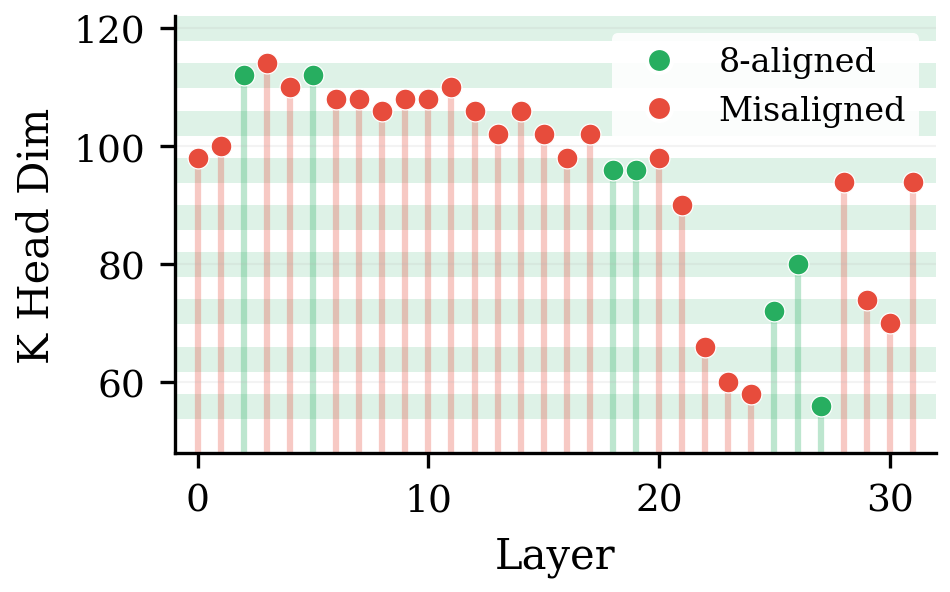
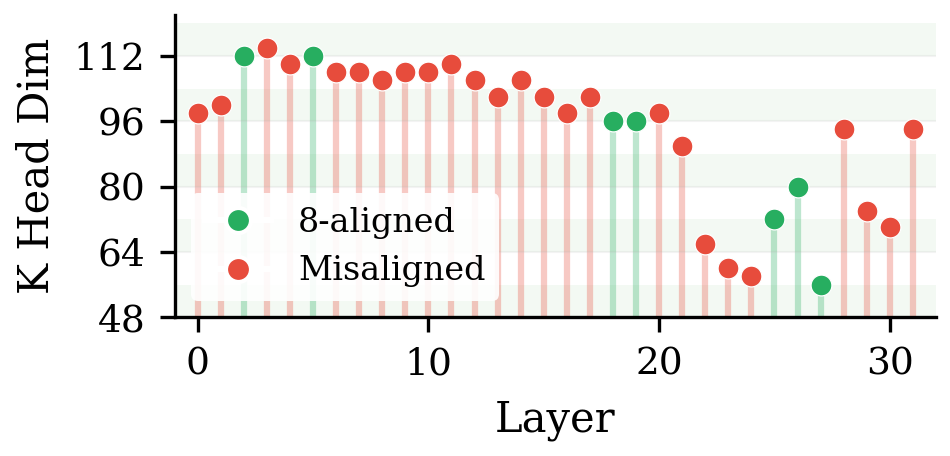
Update plots

diff --git a/Latex/main.tex b/Latex/main.tex
@@ -129,10 +129,9 @@ Second, allocate the budget $B$ by assigning each $W_i$ a dimension $d_i$ thus t
 Here $d_i$ is the compressed dimension (e.g., inner rank or output width, varies by compression method), $|W_i|$ is the parameter count given dimension $d_i$, $|\mathcal{W}'| = \sum_i |W_i|$ is the total parameter count of the compressed model, and $B$ is the parameter budget.
 Because $s_i$ and the optimum $\{d_i\}$ are continuous, the resulting dimensions are typically \emph{irregular} (e.g., 107, 108, 109) and often violate GPU alignment requirements (e.g.\ $d \bmod 8 = 0$), triggering backend fallbacks and kernel switches that erase the expected speedup from fewer parameters and FLOPs.
 
-We exemplify the dimensional misalignment problem with a real-world example: PaLU~\cite{palu}.
-We use \textbf{8-alignment} ($d \bmod 8 = 0$) as a concrete example of alignment constraints.
+We demonstrate the dimensional misalignment problem with a real-world example: PaLU~\cite{palu}.
+We use \textbf{8-alignment} ($d \bmod 8 = 0$) as an example of alignment constraints. When dimensions are not 8-aligned, latency can increase by up to 90\% (Figure~\ref{fig:sdpa_latency}); we detail this analysis in \S\ref{sec:analysis}.
 Figure~\ref{fig:palu_dist} shows that a large fraction of layers end up misaligned (e.g., 78\% in this setup).
-When dimensions are not 8-aligned, latency can increase by up to 90\% (Figure~\ref{fig:sdpa_latency}); we detail this analysis in \S\ref{sec:analysis}.
 For generality, we summarize the mainstream importance score proxies into four categories (Table~\ref{tab:importance_scores}).
 We empirically measure unconstrained dimension allocation on Llama-3-8B at $\rho=20\%$ with all four proxies, Figure~\ref{fig:dim_scatter} demonstrates the dimensional misalignment consistently occurs across different methods.
 \begin{figure}[t]
@@ -166,8 +165,6 @@ Fisher & $\mathrm{tr}(\mathbf{F}_i)$ & Curvature of loss & PaLU~\cite{palu}, FWS
 \caption{Llama-3-8B at $\rho=20\%$. Shape: $\circ{=}$Q Head, $\square{=}$K Head, $\triangle{=}$V Head; color: \textcolor{cgreen}{green}=8-aligned, \textcolor{cred}{red}=misaligned.}
 \label{fig:dim_scatter}
 \end{figure*}
-
-\input{figures/fig1_overview.tex}
 
 
 %% ===========================================

diff --git a/scripts/create_paper_figures.py b/scripts/create_paper_figures.py
@@ -13,6 +13,7 @@ import matplotlib.pyplot as plt
 import matplotlib.patches as mpatches
 from matplotlib.patches import FancyBboxPatch, FancyArrowPatch, Rectangle, Wedge
 from matplotlib.lines import Line2D
+from matplotlib.ticker import MultipleLocator
 from pathlib import Path
 from collections import Counter
 
@@ -310,12 +311,15 @@ def fig3_palu_distribution():
     dims = data['dims_per_head']  # 32 layers
     layers = list(range(len(dims)))
 
-    fig, ax = plt.subplots(figsize=(3.4, 2.2))
+    fig, ax = plt.subplots(figsize=(3.4, 1.75))
 
-    # Horizontal reference bands at 8-aligned values
-    for val in [56, 64, 72, 80, 88, 96, 104, 112, 120, 128]:
-        if min(dims) - 10 <= val <= max(dims) + 10:
-            ax.axhline(val, color=COLORS['aligned'], alpha=0.15, linewidth=6, zorder=0)
+    ymin, ymax = min(dims) - 8, max(dims) + 8
+    # Background: alternating horizontal bands every 8 units (8-aligned grid)
+    band_lo = (int(ymin) // 8) * 8
+    band_hi = ((int(ymax) + 7) // 8) * 8
+    shade_colors = ['#E8F5E9', 'white']  # light green, white
+    for i, y0 in enumerate(range(band_lo, band_hi, 8)):
+        ax.axhspan(y0, y0 + 8, facecolor=shade_colors[i % 2], alpha=0.5, zorder=0)
 
     # Draw stems and markers manually for per-color control
     colors = [COLORS['aligned'] if d % 8 == 0 else COLORS['misaligned'] for d in dims]
@@ -327,7 +331,8 @@ def fig3_palu_distribution():
     ax.set_xlabel('Layer', fontsize=10)
     ax.set_ylabel('K Head Dim', fontsize=10)
     ax.set_xlim(-1, len(dims))
-    ax.set_ylim(min(dims) - 8, max(dims) + 8)
+    ax.set_ylim(ymin, ymax)
+    ax.yaxis.set_major_locator(MultipleLocator(16))
     ax.tick_params(labelsize=9)
 
     # Legend
@@ -337,7 +342,7 @@ def fig3_palu_distribution():
         Line2D([0], [0], marker='o', color='w', markerfacecolor=COLORS['misaligned'],
                markersize=6, label='Misaligned'),
     ]
-    ax.legend(handles=legend_elements, loc='upper right', fontsize=8,
+    ax.legend(handles=legend_elements, loc='lower left', fontsize=8,
               framealpha=0.9, edgecolor='none')
 
     ax.spines['top'].set_visible(False)
